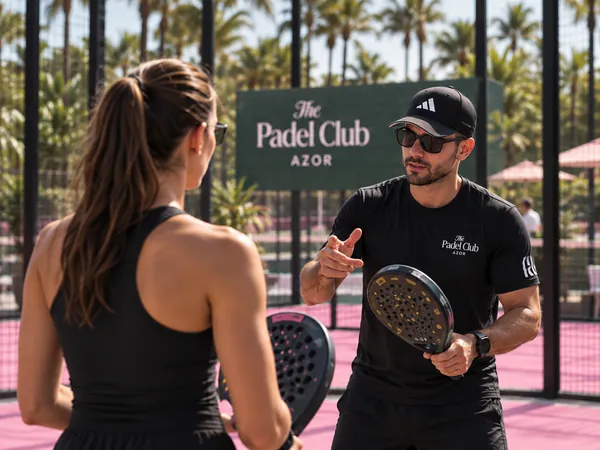
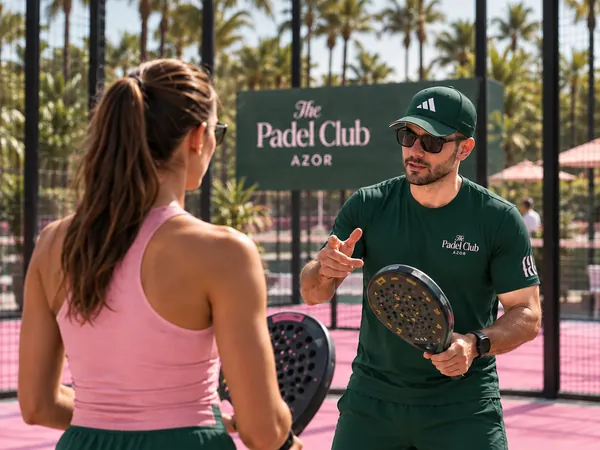
Training photos in the brand colours
Note 10: the two training photos were re-coloured (same people, same framing, pink and green sportswear
instead of black). The black versions are kept in handoff-extra/play-2026-09-19/originals-black/.

diff --git a/index.html b/index.html
@@ -20,7 +20,7 @@
 <link rel="stylesheet" href="https://fonts.googleapis.com/css2?family=Heebo:wght@400;500;700;800&family=Inter:wght@500;600;800&display=swap">
 <link rel="preload" as="image" href="assets/img/hero_mobile.webp?v=4" media="(max-width: 767px)">
 <link rel="preload" as="image" href="assets/img/hero_desktop.webp?v=4" media="(min-width: 768px)">
-<link rel="stylesheet" href="assets/css/style.css?v=20261004-shaded">
+<link rel="stylesheet" href="assets/css/style.css?v=20261004-play">
 <script type="application/ld+json" id="schema-business">
 {
   "@context": "https://schema.org",
@@ -359,7 +359,7 @@
       <ul class="play-grid">
         <li class="play-card">
           <div class="play-media">
-            <img src="assets/play/group-training.webp" srcset="assets/play/group-training-600.webp 600w, assets/play/group-training.webp 1000w"
+            <img src="assets/play/group-training.webp?v=2" srcset="assets/play/group-training-600.webp?v=2 600w, assets/play/group-training.webp?v=2 1000w"
                  sizes="(min-width: 768px) 30vw, 45vw" width="1000" height="750" loading="lazy" decoding="async"
                  alt="מאמן ושלושה שחקנים עם מחבטים על המגרש הוורוד של המועדון">
           </div>
@@ -381,7 +381,7 @@
         </li>
         <li class="play-card">
           <div class="play-media">
-            <img src="assets/play/private-training.webp" srcset="assets/play/private-training-600.webp 600w, assets/play/private-training.webp 1000w"
+            <img src="assets/play/private-training.webp?v=2" srcset="assets/play/private-training-600.webp?v=2 600w, assets/play/private-training.webp?v=2 1000w"
                  sizes="(min-width: 768px) 30vw, 45vw" width="1000" height="750" loading="lazy" decoding="async"
                  alt="מאמן מסביר לשחקנית עם מחבט על המגרש">
           </div>

diff --git a/shop/index.html b/shop/index.html
@@ -13,7 +13,7 @@
 <link rel="preconnect" href="https://fonts.googleapis.com">
 <link rel="preconnect" href="https://fonts.gstatic.com" crossorigin>
 <link rel="stylesheet" href="https://fonts.googleapis.com/css2?family=Heebo:wght@400;500;600;700&family=Inter:wght@500;600;700&display=swap">
-<link rel="stylesheet" href="../assets/css/style.css?v=20261004-shaded">
+<link rel="stylesheet" href="../assets/css/style.css?v=20261004-play">
 </head>
 <body class="page-shop">
 <a class="skip-link" href="#main">דילוג לתוכן</a>

diff --git a/shop/product.html b/shop/product.html
@@ -11,7 +11,7 @@
 <link rel="preconnect" href="https://fonts.googleapis.com">
 <link rel="preconnect" href="https://fonts.gstatic.com" crossorigin>
 <link rel="stylesheet" href="https://fonts.googleapis.com/css2?family=Heebo:wght@400;500;600;700&family=Inter:wght@500;600;700&display=swap">
-<link rel="stylesheet" href="../assets/css/style.css?v=20261004-shaded">
+<link rel="stylesheet" href="../assets/css/style.css?v=20261004-play">
 </head>
 <body class="page-shop">
 <a class="skip-link" href="#main">דילוג לתוכן</a>

diff --git a/README.md b/README.md
@@ -236,13 +236,17 @@ What the client asked for, and what was done:
    professional side (he is not the owner); Roy Best is the in-house coach; coach training runs with adidas Israel.
 6. Photos of the shop: waiting for material.
 7. Shop heading: "חנות הדגל של adidas Padel", with a line saying adidas only and that the website is the catalogue while
-   the sale happens at the club (homepage and /shop/).
-8. The pink tee photo is adidas' own product photo, straight from adidas' asset CDN; their CDN serves the same model shot
+   the sale happens at the club (homepage and /shop/). The client confirmed the wording on 4.10.
+8. A product-only frame of the same tee was pulled from the adidas product page for the client to look at
+   (handoff-extra/adidas-tshirt-no-model.jpg); the photo on the site is still adidas' own product photo, straight from adidas' asset CDN; their CDN serves the same model shot
    for every view code, so a product-only frame needs the product page itself. Swapping the product is a minute's work.
 9. Tournaments: a tournament whose date has passed shows "הסתיים" on the photo and its button reads "הטורניר הסתיים";
    a "הסתיימו" chip lists them. Photos from past tournaments can be added later.
-10. The training photos with black clothing: waiting for replacements in the brand colours.
+10. The training photos were re-coloured on Higgsfield (gpt_image_2_5 edit, 0.25 credits each): same people and
+    framing, clothing in the brand's pink and green. The black versions are in handoff-extra/play-2026-09-19/originals-black/.
 11. Photos of the café and the gym: waiting for material.
+
+Courts are described as shaded (מוצללים), the client's answer on 4.10.
 
 ## Hero media back to the client's own videos (Snir, 2026-10-04)
 
